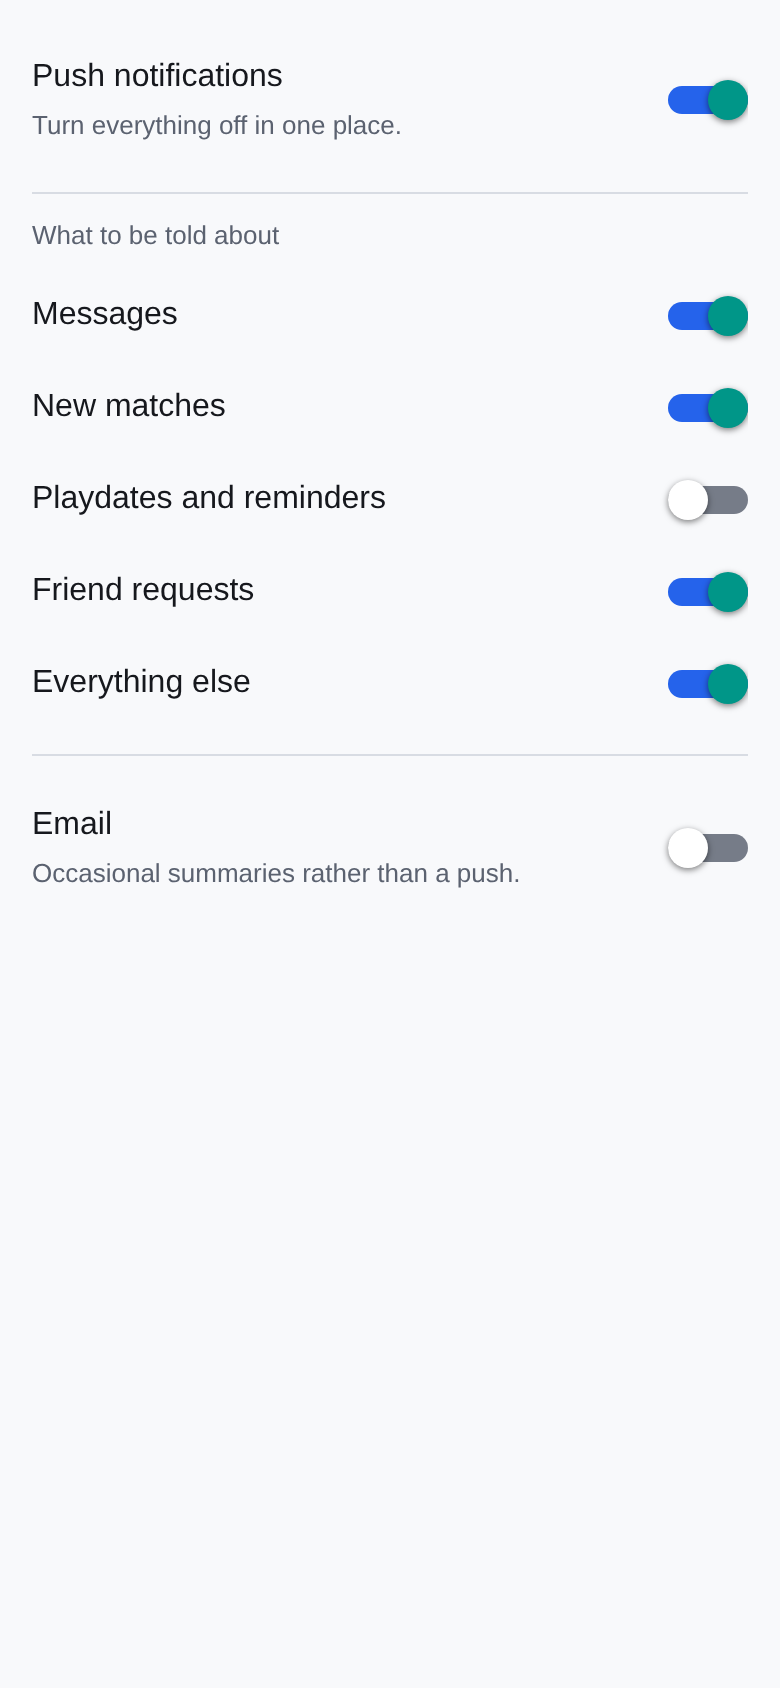
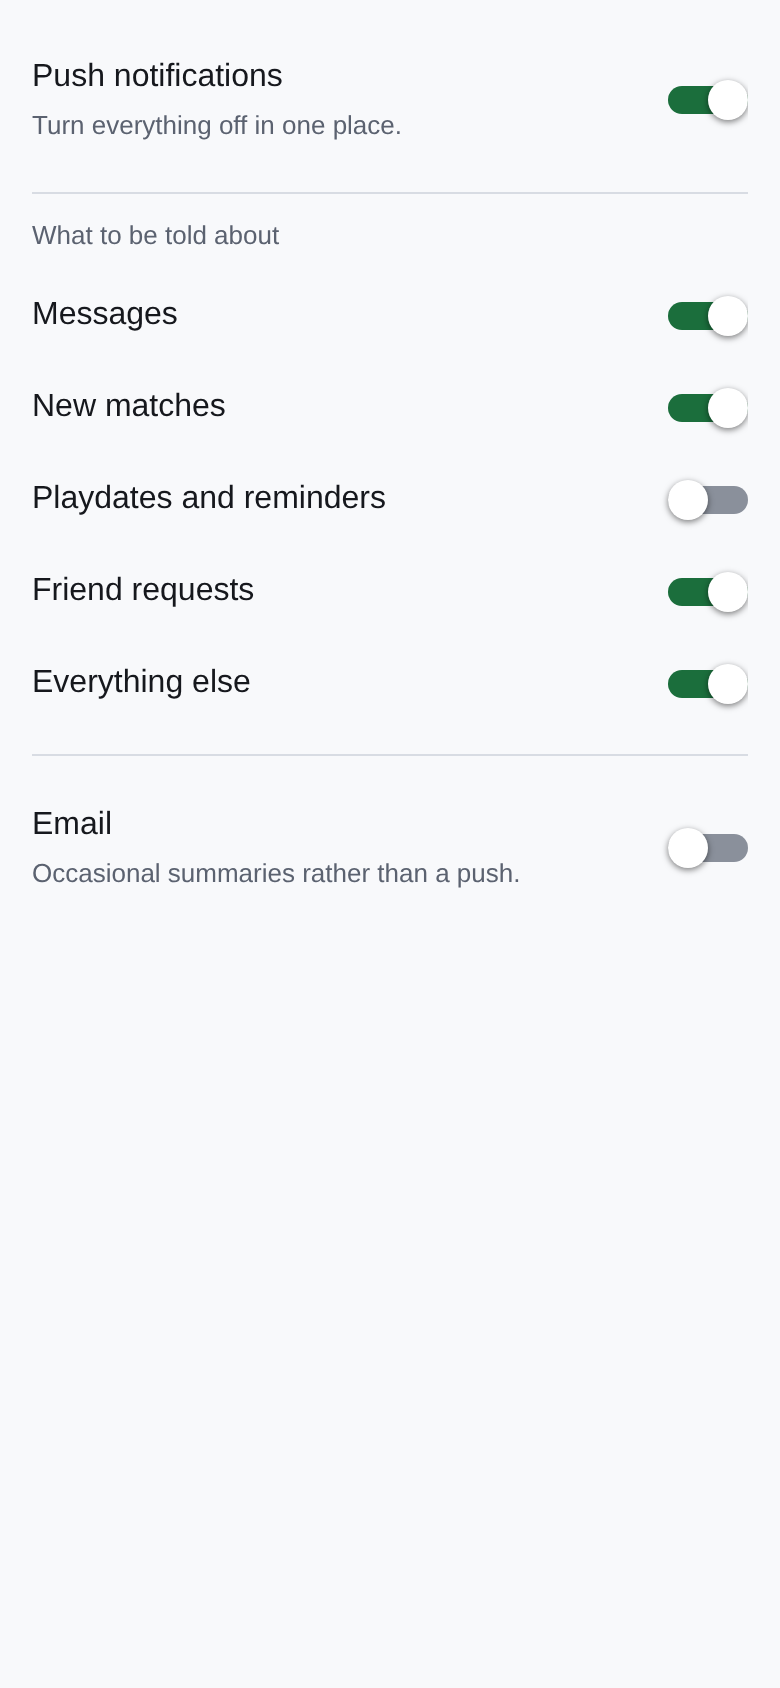
Give the switch its own colours, and stop the gallery lying about them
Two separate faults, one of which shipped.

The green was never real. `react-native-web`'s Switch takes `activeThumbColor`
for the on-state knob and falls back to Material teal `#009688` when it is
missing, so every screenshot showed a teal knob on a blue track that no device
would ever render. The gallery exists to show what the app looks like, and here
it was showing something else.

The dark mode one did ship: `thumbColor: tokens.surface` is white in light and
`#14161A` in dark, so every switch on a dark device had a near-black hole
punched in it.

Both came from borrowing tokens. A switch is a knob on a track on a surface -
three relationships at once - and nothing else in the palette was chosen with
those in mind, so `switchOn`, `switchOff` and `switchKnob` are their own
tokens now. On is green rather than the primary blue: a switch reports state,
and every button in the app is already blue.

The values are not a taste call, they are what the constraints leave. With both
tracks required to clear 3:1 against a near-white knob *and* against the
surface behind them, dark has only luminance 0.124-0.268 to work in - a band
whose widest on/off separation is 1.83:1. The pair sits at 1.72:1, on at the
top of the band and off at the bottom.

`success` looks like the obvious on-track and is wrong: in dark it is a mint
the knob vanishes into at 1.7:1. That is kept as a regression test, because it
is the mistake anybody would make next.
[…]

Changed region(s): [[0.8615, 0.154, 0.9538, 0.2773], [0.8615, 0.3389, 0.9538, 0.4313], [0.8615, 0.0308, 0.9538, 0.0924]]

diff --git a/PetPalsConnectApp/src/styles/tokens.test.js b/PetPalsConnectApp/src/styles/tokens.test.js
@@ -100,6 +100,86 @@ describe.each([
   });
 });
 
+/**
+ * A switch is a knob on a track on a surface, so it has three relationships to
+ * keep, not one - and the two that were borrowed both failed.
+ *
+ * `thumbColor: surface` is white in light and near-black in dark, so every
+ * switch in dark mode had a hole in it. And `success` looks like the obvious
+ * on-track until you measure it: in dark it is a mint a near-white knob sits
+ * on at 1.7:1.
+ *
+ * 3:1 is the floor here rather than 4.5:1 - these are UI components, not text
+ * (WCAG 1.4.11).
+ */
+describe("the switch keeps all three of its relationships", () => {
+  const CONTROL = 3;
+
+  for (const [name, palette] of [["light", light], ["dark", dark]]) {
+    describe(name, () => {
+      it("shows the knob against the on-track", () => {
+        expect(contrast(palette.switchKnob, palette.switchOn)).toBeGreaterThanOrEqual(
+          CONTROL
+        );
+      });
+
+      it("shows the knob against the off-track", () => {
+        expect(contrast(palette.switchKnob, palette.switchOff)).toBeGreaterThanOrEqual(
+          CONTROL
+        );
+      });
+
+      it("shows both tracks against the surfaces they sit on", () => {
+        // Settings rows sit on `bg`; a switch inside a Card sits on `surface`.
+        for (const behind of [palette.surface, palette.bg]) {
+          expect(contrast(palette.switchOn, behind)).toBeGreaterThanOrEqual(CONTROL);
+          expect(contrast(palette.switchOff, behind)).toBeGreaterThanOrEqual(CONTROL);
+        }
+      });
+
+      /**
+       * On and off must differ in *brightness*, not only in hue.
+       *
+       * The track carries no label, so its colour is the whole signal - and a
+       * signal carried by hue alone is no signal to the ~8% of men with a
+       * red-green deficiency. The first pair chosen here was a green and a grey
+       * of almost identical luminance: 1.14:1, indistinguishable in greyscale.
+       *
+       * 1.6 rather than something rounder because the ceiling is 1.83. Both
+       * tracks have to clear 3:1 against a near-white knob *and* against the
+       * surface, which pins them inside luminance 0.124-0.268; on sits at the
+       * top of that band and off at the bottom.
+       */
+      it("separates on from off by brightness, not just hue", () => {
+        expect(contrast(palette.switchOn, palette.switchOff)).toBeGreaterThanOrEqual(
+          1.6
+        );
+      });
+
+      /**
+       * "On" has to read as the filled state.
+       *
+       * Not "on is brighter": that flips between themes. On a light ground a
+       * filled switch is a dark green; on a dark one it is a light green. What
+       * holds either way is that the on-track departs from the background more
+       * than the off-track does, which is what "filled" means optically.
+       */
+      it("reads on as the filled state, whichever theme it is in", () => {
+        expect(contrast(palette.switchOn, palette.bg)).toBeGreaterThan(
+          contrast(palette.switchOff, palette.bg)
+        );
+      });
+    });
+  }
+
+  it("does not reuse a token that only works in one theme", () => {
+    // The two that were tried. Kept as a regression, because both read as the
+    // obvious choice and both are wrong in exactly one theme.
+    expect(contrast(dark.switchKnob, dark.success)).toBeLessThan(CONTROL);
+    expect(contrast(dark.surface, dark.switchOn)).toBeGreaterThanOrEqual(CONTROL);
+  });
+});
+
 describe("scales", () => {
   it("every spacing step is a multiple of four", () => {
     // The app's real histogram had fifteen values; `10` alone appeared 98 times

diff --git a/PetPalsConnectApp/src/components/ui/Toggle.js b/PetPalsConnectApp/src/components/ui/Toggle.js
@@ -15,6 +15,21 @@ import { useTokens } from "../../context/AppThemeContext";
  * A switch is also the one control where "off" has to stay legible: the track
  * carries no label, so its unselected state is the only thing distinguishing a
  * disabled setting from a missing one.
+ *
+ * The colours are three tokens of their own rather than borrowed ones. Two
+ * things went wrong when they were borrowed:
+ *
+ * - `thumbColor: surface` is white in light and *near-black* in dark, so every
+ *   switch in dark mode had a hole punched in it. That shipped.
+ * - `success` cannot be the on-track. In dark it is a mint `#6FD08C`, and a
+ *   near-white knob sits on it at 1.7:1 - invisible. `switchOn` is darker for
+ *   exactly that reason, and `tokens.test.js` asserts all three relationships.
+ *
+ * `activeThumbColor` is a react-native-web prop, ignored on iOS and Android.
+ * Without it the web gallery fell back to react-native-web's own default,
+ * Material teal `#009688`, so every screenshot showed a green knob on a blue
+ * track that no device would ever render. Setting it makes all three platforms
+ * agree - and the gallery stop lying about the app.
  */
 const Toggle = ({ value, onValueChange, disabled = false, accessibilityLabel, testID }) => {
   const tokens = useTokens();
@@ -28,9 +43,10 @@ const Toggle = ({ value, onValueChange, disabled = false, accessibilityLabel, te
       accessibilityRole="switch"
       accessibilityLabel={accessibilityLabel}
       accessibilityState={{ checked: Boolean(value), disabled }}
-      trackColor={{ false: tokens.borderStrong, true: tokens.primary }}
-      thumbColor={tokens.surface}
-      ios_backgroundColor={tokens.borderStrong}
+      trackColor={{ false: tokens.switchOff, true: tokens.switchOn }}
+      thumbColor={tokens.switchKnob}
+      activeThumbColor={tokens.switchKnob}
+      ios_backgroundColor={tokens.switchOff}
       style={{ opacity: disabled ? 0.5 : 1 }}
     />
   );

diff --git a/PetPalsConnectApp/src/styles/tokens.ts b/PetPalsConnectApp/src/styles/tokens.ts
@@ -53,6 +53,19 @@ export type Palette = {
   warning: string;
   warningSoft: string;
 
+  /**
+   * A switch, which is the one control that cannot borrow its colours.
+   *
+   * Everything else here is a surface, a text tone or a fill. A switch is a
+   * knob on a track, and both need to read against each other *and* against
+   * the surface behind them - three relationships no existing token was chosen
+   * for. `success` cannot be the on-track: in dark it is a mint green a white
+   * knob disappears into at 1.7:1.
+   */
+  switchOn: string;
+  switchOff: string;
+  switchKnob: string;
+
   /** Skeleton placeholders and other "not here yet" fills. */
   skeleton: string;
   /** Scrims behind modals and sheets. */
@@ -81,6 +94,12 @@ export const light: Palette = {
   successSoft: "#E4F2E8",
   warning: "#8A5A00", // 5.9:1
   warningSoft: "#FBF0DC",
+
+  // Green rather than the primary blue: a switch reports state, and every
+  // button in the app is already blue. 6.3:1 against the knob.
+  switchOn: "#1B6E3C",
+  switchOff: "#8A909B",
+  switchKnob: "#FFFFFF",
 
   skeleton: "#E7EAEF",
   scrim: "rgba(10, 12, 16, 0.55)",
@@ -115,6 +134,16 @@ export const dark: Palette = {
   successSoft: "#152619",
   warning: "#E0B457", // 9.4:1
   warningSoft: "#2A2213",
+
+  // The knob stays near-white in dark too, so the tracks are pinned to the ends
+  // of a narrow band: both must clear 3:1 against that knob *and* against the
+  // surface, which leaves only L 0.124-0.268 to work in. On sits at the top of
+  // it and off at the bottom, which is the most on/off separation the band
+  // allows - 1.72:1 against a ceiling of 1.83:1. `success` cannot be the
+  // on-track: in dark it is a mint the knob vanishes into at 1.7:1.
+  switchOn: "#2E9E5B",
+  switchOff: "#5D6575",
+  switchKnob: "#F2F4F8",
 
   skeleton: "#22262D",
   scrim: "rgba(0, 0, 0, 0.66)",

diff --git a/CLAUDE.md b/CLAUDE.md
@@ -125,6 +125,30 @@ is the same as not having one. The migration is finished, so the baseline is
 empty and the same code is now a ban. `-- --update` still exists; needing it
 means you are adding a colour, and the answer is almost always a token.
 
+**A switch is the one control that cannot borrow its colours.** Everything else
+is a surface, a text tone or a fill; a switch is a knob on a track on a
+surface, which is three relationships at once. Both borrowed tokens failed:
+`thumbColor: surface` is white in light and *near-black* in dark, so every
+switch in dark mode had a hole in it — and `success` reads as the obvious
+on-track until you measure it, because in dark it is a mint a near-white knob
+sits on at 1.7:1. `switchOn`/`switchOff`/`switchKnob` exist for that, and
+`tokens.test.js` asserts all of it. The band is genuinely tight: with both
+tracks clearing 3:1 against the knob *and* the surface, only luminance
+0.124–0.268 is left in dark, so the most on/off separation available is 1.83:1
+and the pair sits at 1.72:1. On and off must differ in **brightness**, not only
+hue — the first pair chosen here was a green and a grey at 1.14:1, identical in
+greyscale. "On is brighter" is *not* the rule, though: that flips per theme. On
+a light ground a filled switch is a dark green, on a dark one a light green, so
+what is asserted is that the on-track departs from the background more than the
+off-track does.
+
+**A web-only default can make the gallery lie.** `react-native-web`'s `Switch`
+takes `activeThumbColor` for the on-state knob and falls back to Material teal
+`#009688` — so every screenshot showed a green knob on a blue track that no
+device would ever render, and the one tool meant to show what the app looks
+like was showing something else. Setting it alongside `thumbColor` makes all
+three platforms agree.
+
 **A colour in a `StyleSheet.create` cannot follow a theme.** Where a file keeps
 one, it is `const makeStyles = (t) => StyleSheet.create({...})` called as
 `useMemo(() => makeStyles(tokens), [tokens])`. Same for a default prop: a
